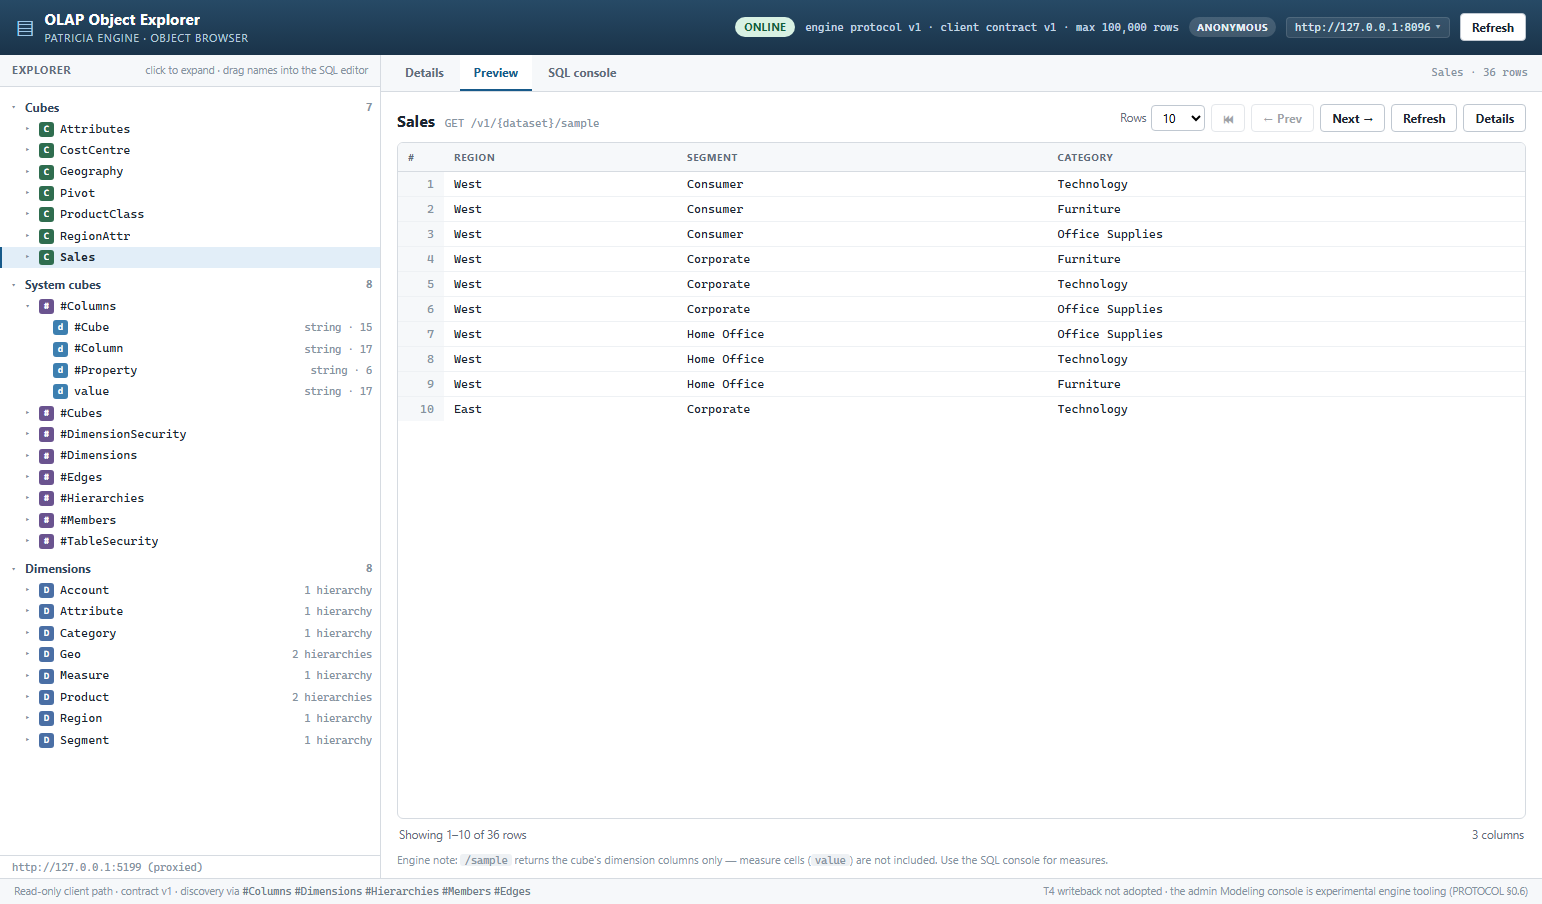
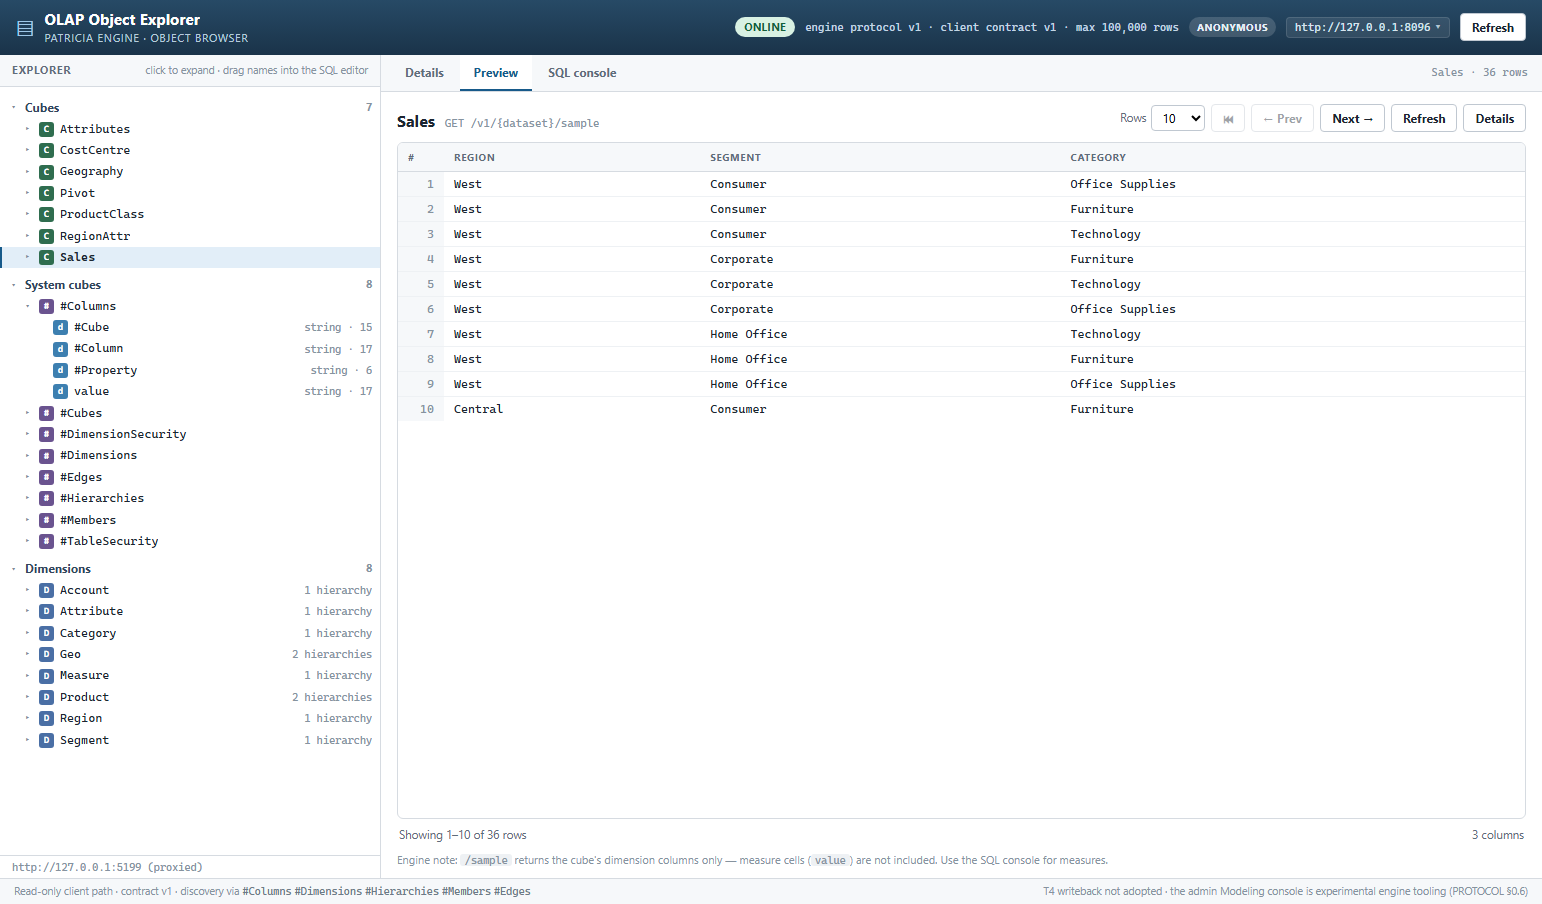
feat(cli): CREATE templates in the Modeling console
The web SQL console is read-only, so modelling DDL belongs in the admin CLI.
Adds a Templates menu that inserts CREATE skeletons into the command line:
plain cube, measure-dimension cube, attribute table, dimension and hierarchy.
Each is verified against a scratch HEAD engine via POST /v1/cli; the UI check
asserts insertion (63 checks).

Changed region(s): [[0.4358, 0.1549, 0.4981, 0.4646], [0.6848, 0.1549, 0.7471, 0.4646]]

diff --git a/src/cli.tsx b/src/cli.tsx
@@ -33,6 +33,51 @@ interface CliEntry {
 const MAX_COMMAND_BYTES = 8192;
 const HISTORY_LIMIT = 30;
 
+interface CliTemplate {
+  id: string;
+  label: string;
+  detail: string;
+  sql: string;
+}
+
+/**
+ * CREATE skeletons for the admin CLI. The web SQL console (`/v1/sql`) is
+ * read-only, so modelling DDL belongs here; the template only fills the command
+ * input — the operator renames the example objects and presses Run.
+ */
+const CREATE_TEMPLATES: CliTemplate[] = [
+  {
+    id: 'create-table',
+    label: 'CREATE TABLE — plain cube',
+    detail: 'STRING dimensions; the trailing insert value is the cell',
+    sql: 'CREATE TABLE NewCube (Region STRING, Segment STRING, Category STRING)',
+  },
+  {
+    id: 'create-table-measure',
+    label: 'CREATE TABLE — measure cube',
+    detail: 'adds a MEASURE dimension (members like Sales, Profit)',
+    sql: 'CREATE TABLE NewCubeMeasure (Region STRING, Segment STRING, Measure MEASURE)',
+  },
+  {
+    id: 'create-attribute',
+    label: 'CREATE ATTRIBUTE TABLE',
+    detail: 'key columns + attribute name/value pairs',
+    sql: 'CREATE ATTRIBUTE TABLE NewAttributes (Region STRING, Attribute MEASURE)',
+  },
+  {
+    id: 'create-dimension',
+    label: 'CREATE DIMENSION',
+    detail: 'empty dimension; add members with .import_* or INSERT',
+    sql: 'CREATE DIMENSION NewDimension',
+  },
+  {
+    id: 'create-hierarchy',
+    label: 'CREATE HIERARCHY',
+    detail: 'run after its dimension exists',
+    sql: 'CREATE HIERARCHY NewHierarchy IN NewDimension',
+  },
+];
+
 function byteLength(text: string): number {
   if (typeof TextEncoder === 'undefined') return text.length;
   return new TextEncoder().encode(text).length;
@@ -79,6 +124,7 @@ export function CliConsole({ supportsCli, roles, anonymous }: CliConsoleProps) {
   const [saveConfirm, setSaveConfirm] = useState(false);
   const [nextId, setNextId] = useState(1);
   const [historyOpen, setHistoryOpen] = useState(false);
+  const [templateOpen, setTemplateOpen] = useState(false);
   // Shell-style recall: null = editing a new line; otherwise an index into
   // `entries` (newest first), with the in-progress line kept in `draft`.
   const [browseIndex, setBrowseIndex] = useState<number | null>(null);
@@ -112,6 +158,7 @@ export function CliConsole({ supportsCli, roles, anonymous }: CliConsoleProps) {
     }
     setFormError(null);
     setSaveConfirm(false);
+    setTemplateOpen(false);
     setRunning(true);
     setBrowseIndex(null);
     setDraft('');
@@ -187,6 +234,17 @@ export function CliConsole({ supportsCli, roles, anonymous }: CliConsoleProps) {
     setActiveId(entry.id);
     setBrowseIndex(null);
     setHistoryOpen(false);
+    setTemplateOpen(false);
+    requestAnimationFrame(() => inputRef.current?.focus());
+  };
+
+  const insertTemplate = (template: CliTemplate) => {
+    setCommand(template.sql);
+    setBrowseIndex(null);
+    setDraft('');
+    setFormError(null);
+    setTemplateOpen(false);
+    setHistoryOpen(false);
     requestAnimationFrame(() => inputRef.current?.focus());
   };
 
@@ -203,6 +261,7 @@ export function CliConsole({ supportsCli, roles, anonymous }: CliConsoleProps) {
       }
     } else if (event.key === 'Escape') {
       setHistoryOpen(false);
+      setTemplateOpen(false);
     }
   };
 
@@ -266,6 +325,48 @@ export function CliConsole({ supportsCli, roles, anonymous }: CliConsoleProps) {
             >
               Run
             </button>
+            <div className="cli-template-wrap">
+              <button
+                type="button"
+                className="btn"
+                data-testid="cli-template-button"
+                aria-haspopup="menu"
+                aria-expanded={templateOpen}
+                title="Insert a CREATE skeleton into the command line"
+                disabled={running}
+                onClick={() => {
+                  setTemplateOpen((open) => !open);
+                  setHistoryOpen(false);
+                }}
+              >
+                Templates ▾
+              </button>
+              {templateOpen && (
+                <div
+                  className="cli-history-menu cli-template-menu"
+                  role="menu"
+                  data-testid="cli-template-menu"
+                >
+                  <p className="cli-template-heading">
+                    CREATE templates — inserted into the command line; rename, then Run
+                  </p>
+                  {CREATE_TEMPLATES.map((template) => (
+                    <button
+                      key={template.id}
+                      type="button"
+                      role="menuitem"
+                      className="cli-history-item"
+                      data-testid={`cli-template-${template.id}`}
+                      title={template.sql}
+                      onClick={() => insertTemplate(template)}
+                    >
+                      <span className="cli-history-command">{template.label}</span>
+                      <span className="cli-history-meta">{template.detail}</span>
+                    </button>
+                  ))}
+                </div>
+              )}
+            </div>
             <div className="cli-history-button-wrap">
               <button
                 type="button"
@@ -275,7 +376,10 @@ export function CliConsole({ supportsCli, roles, anonymous }: CliConsoleProps) {
                 aria-expanded={historyOpen}
                 title="Recent commands (↑/↓ in the input recalls them)"
                 disabled={entries.length === 0}
-                onClick={() => setHistoryOpen((open) => !open)}
+                onClick={() => {
+                  setHistoryOpen((open) => !open);
+                  setTemplateOpen(false);
+                }}
               >
                 History ▾
               </button>

diff --git a/src/styles.css b/src/styles.css
@@ -1635,6 +1635,21 @@ code {
   display: inline-block;
 }
 
+.cli-template-wrap {
+  position: relative;
+  display: inline-block;
+}
+
+.cli-template-menu {
+  width: min(620px, 82vw);
+}
+
+.cli-template-heading {
+  margin: 5px 7px 6px;
+  color: var(--text-faint);
+  font: 10.5px var(--mono);
+}
+
 .cli-history-menu {
   position: absolute;
   z-index: 30;

diff --git a/README.md b/README.md
@@ -158,13 +158,17 @@ weights of `0.5` are preserved and unit-tested. Cycles and self-edges cannot han
   column row in Details) into the statement to insert it at the caret. Contract-wise this is
   engine tooling, not a data path (PROTOCOL §0.5); the pane states the remaining gaps (§11.6
   `GROUP BY`/`HAVING` parsed-but-unread, §11.7 `COUNT` over text, §11.8 no-measure duplication).
+  The web SQL console is **read-only**: CREATE/INSERT/DROP are refused there by the engine —
+  those belong in the admin Modeling console's CLI (D28).
   Omitted dimensions **aggregate across all members** — there is no implicit first-member
   default (contract D22; engine `0e4214d`).
 - **Modeling** (only when `capabilities.supportsCli` is true) — admin CLI console for engine
   `POST /v1/cli` (PROTOCOL §0.6, D28). One command per request (≤8192 bytes, no CR/LF), output
   pane with truncation badge, command history (a **History ▾** dropdown plus shell-style
   **↑/↓** recall in the command input; memory only, cleared by a reload or server switch), and
-  error display. The tab is **experimental
+  error display. A **Templates ▾** menu inserts CREATE skeletons into the command line (plain
+  cube, measure-dimension cube, attribute table, dimension, hierarchy) for the operator to
+  rename and run. The tab is **experimental
   engine tooling, not a conformance tier**; it is gated on the capability and, for a known
   non-admin login, on the `admin` role (the server still enforces 403). The full CLI is
   available to admin: inspection, modelling, `.import*`, `.run`, SQL DDL/DML and an explicit
@@ -285,7 +289,8 @@ the SQL-console behaviour is model-independent and was also smoke-tested against
    the two-step save confirmation. The real-engine phase asserts the tab is **absent** when
    `supportsCli` is missing, and the **server picker** connects to a stub engine URL (including
    validation of a malformed URL) and returns to the proxy default; the CLI check also exercises
-   the History ▾ dropdown and ↑ recall. The SQL console check asserts the parsed **HTML table**
+   the History ▾ dropdown and ↑ recall, plus the **Templates ▾** CREATE menu inserting the
+   table skeleton. The SQL console check asserts the parsed **HTML table**
    (headers, rows, row/column meta) and the raw-text toggle; a pure unit check covers the
    table parser, including its raw fallback for empty/ambiguous output.
 5. Authentication against a real engine with auth enabled on a **copy** of `database.bin`:
